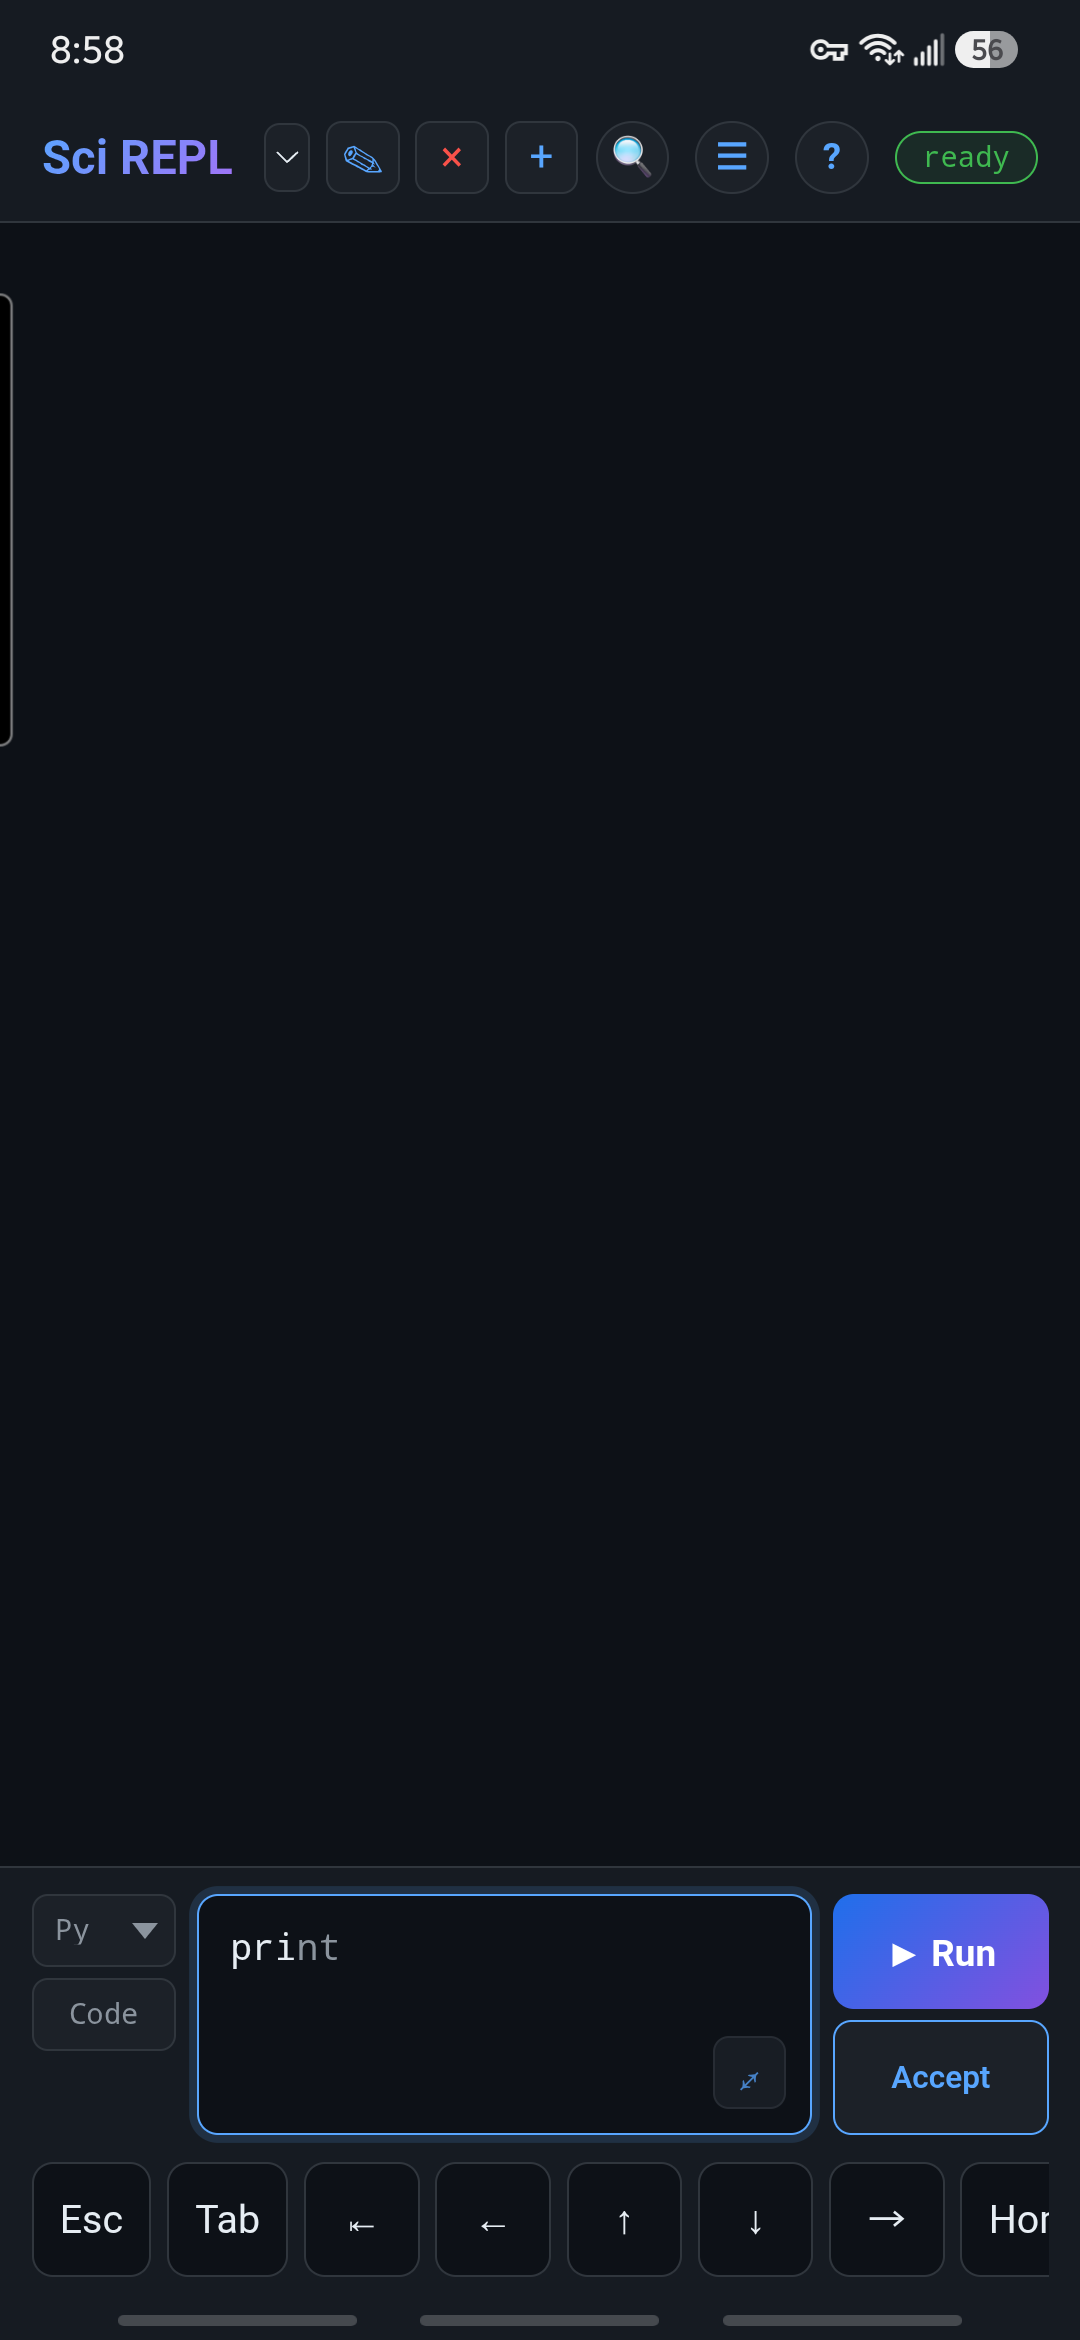
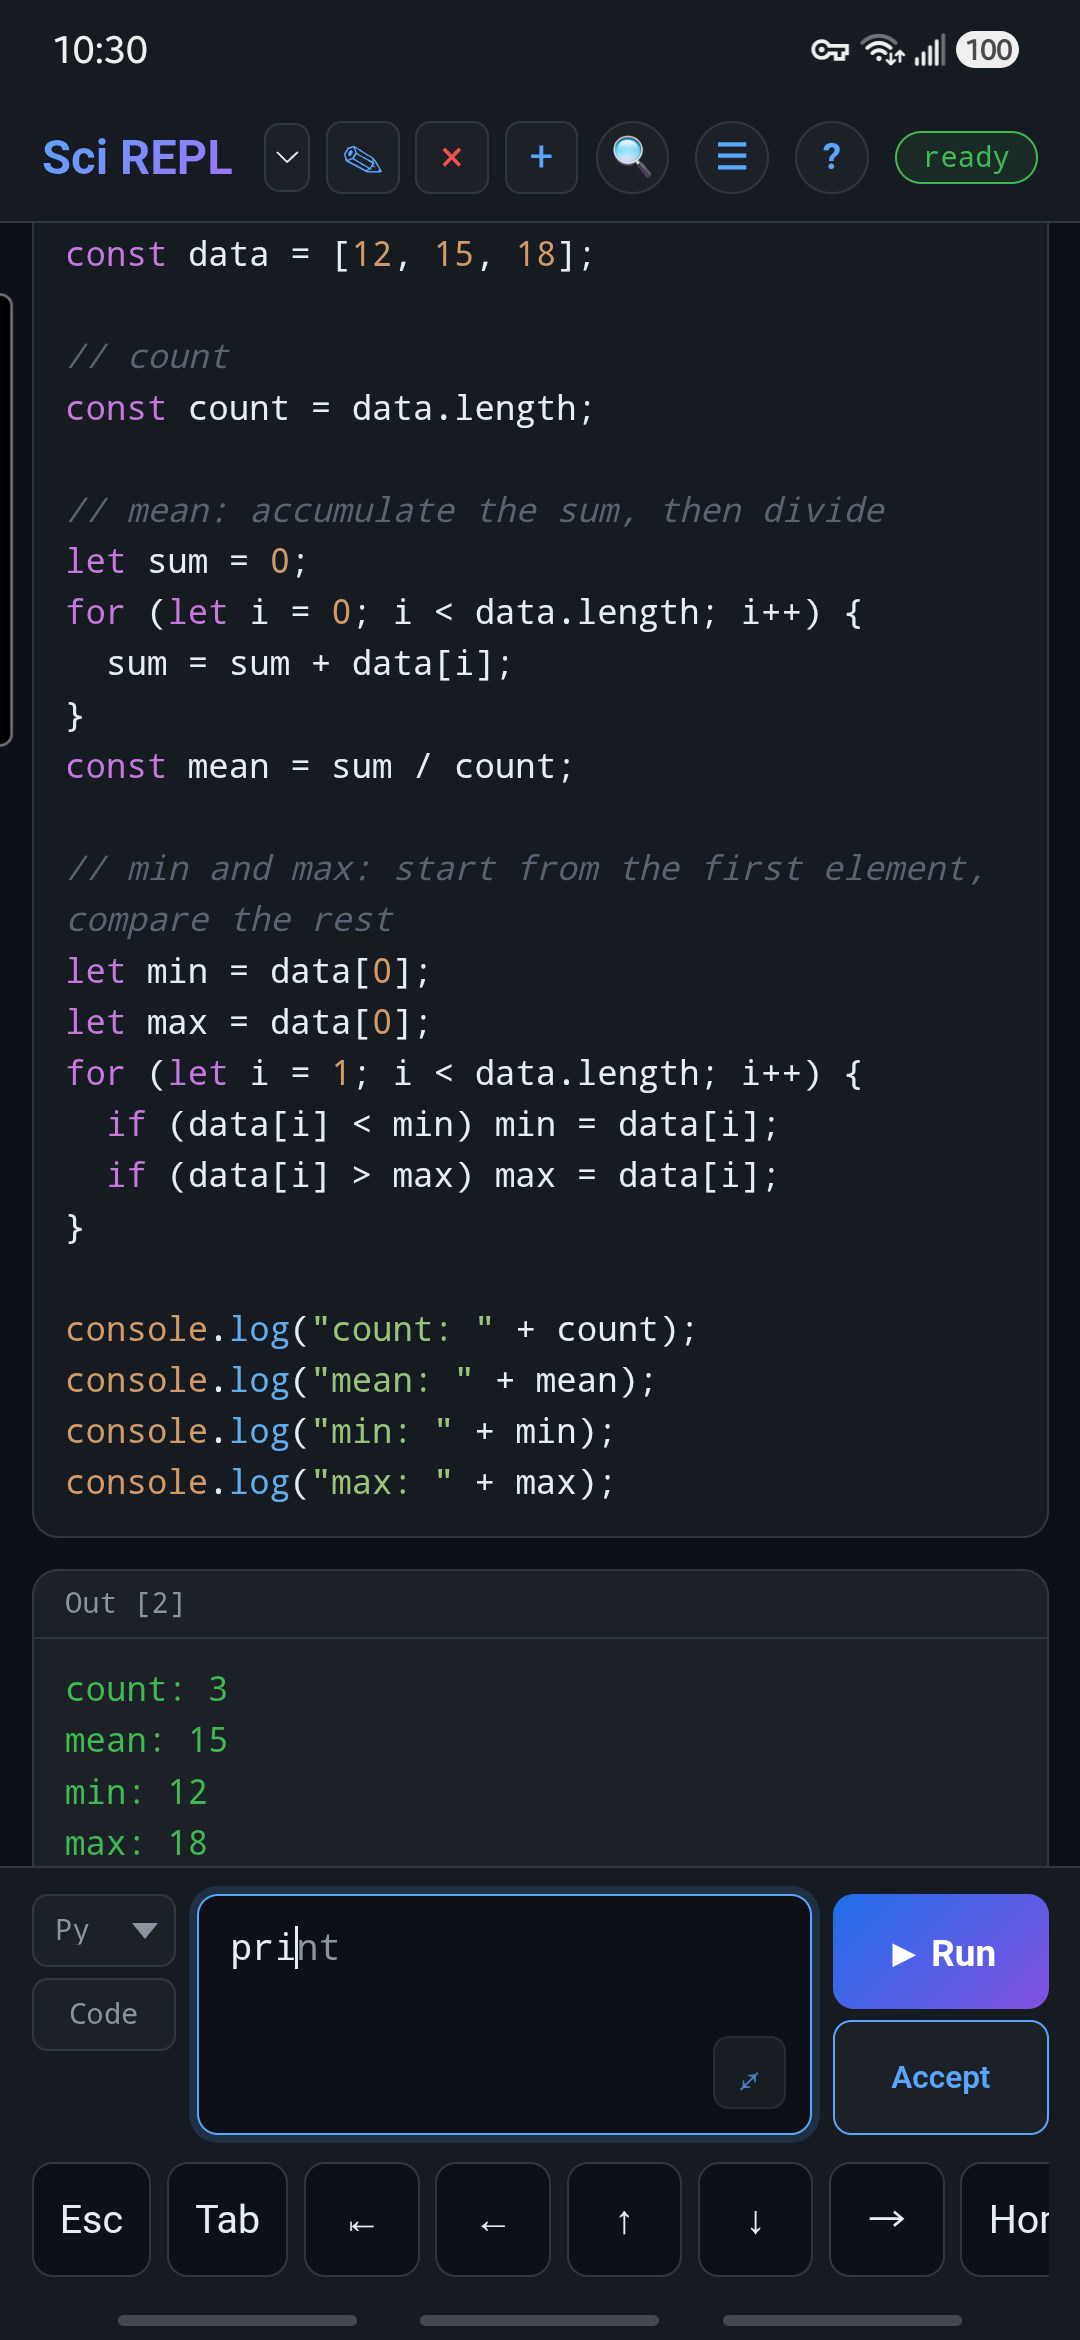
docs: verify ghosts with chips on and explain Pro editor controls

diff --git a/www/help/pro/ai/tutorial/index.html b/www/help/pro/ai/tutorial/index.html
@@ -58,17 +58,22 @@
           <li>Tap the <code>const</code> chip to insert it. A faint in-line completion is called <strong>ghost text</strong>; use <strong>Accept</strong> or <kbd>Tab</kbd> for a visible ghost. Finish the line yourself, for example <code>const values = [12, 15, 18];</code>.</li>
         </ol>
         <figure class="phone-figure">
-          <img class="tutorial-shot" src="assets/completion-general.png" width="414" height="820" alt="Pro browser Completion screen with General selected, Local code completion On, Suggestions At cursor and Suggestion chips On." loading="lazy" decoding="async">
-          <figcaption>The actual General controls in a narrow <strong>browser capture, not an Android screenshot</strong>. The Section dropdown is at the top; lower settings may require scrolling.</figcaption>
+          <div class="shot-window shot-window--completion-general" role="img" aria-label="Pro browser General Completion screen. Yellow borders locate the Ghost text and Suggestion chips headings, Suggestions: At cursor, and Suggestion chips: On.">
+            <div class="shot-stage shot-stage--completion-general">
+              <img src="assets/completion-general.png" width="414" height="820" alt="" loading="lazy" decoding="async">
+              <img src="assets/completion-general-overlay.svg" width="414" height="820" alt="" aria-hidden="true" loading="lazy" decoding="async">
+            </div>
+          </div>
+          <figcaption>The actual General controls in a narrow <strong>browser capture, not an Android screenshot</strong>. Yellow borders locate <strong>Suggestions → At cursor</strong>, <strong>Suggestion chips → On</strong>, and their section titles. The Section dropdown is at the top; lower settings may require scrolling.</figcaption>
           <a class="full-shot-link" href="assets/completion-general.png">View the complete settings capture</a>
         </figure>
-        <p><strong>See the two offline displays on a phone.</strong> For the ghost example, temporarily set <strong>Suggestion chips → Off</strong>, choose <strong>Python</strong>, and type <code>pri</code>. The faint <code>nt</code> after the caret offers <code>print</code>; it is not part of your source until you accept it. Keep <strong>AI suggestions</strong> and <strong>Use local model</strong> off for both examples.</p>
+        <p><strong>See the two offline displays on a phone.</strong> Leave <strong>Suggestion chips → On</strong>, choose <strong>Python</strong>, and type <code>pri</code>. The faint <code>nt</code> after the caret offers <code>print</code>; it is not part of your source until you accept it. <strong>You do not need to turn chips off to see ghost text.</strong> A single candidate can appear as a ghost, while chips offer a choice when several candidates fit. Keep <strong>AI suggestions</strong> and <strong>Use local model</strong> off for both examples.</p>
         <figure class="phone-figure">
-          <img class="tutorial-shot tutorial-shot--composer-detail" src="assets/phone-table-ghost.png" width="1080" height="2340" alt="Lower composer detail from an Android Galaxy S24+ screenshot: Python source pri followed by faint ghost text nt, with suggestion chips off." loading="lazy" decoding="async">
-          <figcaption><strong>Detail view of an actual Galaxy S24+ Android screenshot.</strong> Offline table completion offers one faint suffix at the caret. Chips are off just for this demonstration; the API and local model are off too.</figcaption>
+          <img class="tutorial-shot tutorial-shot--composer-detail" src="assets/phone-table-ghost.png" width="1080" height="2340" alt="Lower composer detail from an Android Galaxy S24+ screenshot: Python source pri followed by faint ghost text nt and an Accept button. Suggestion chips are enabled." loading="lazy" decoding="async">
+          <figcaption><strong>Detail view of an actual Galaxy S24+ Android screenshot.</strong> Offline table completion offers one faint suffix at the caret with <strong>Suggestion chips → On</strong>. The API and local model are off.</figcaption>
           <a class="full-shot-link" href="assets/phone-table-ghost.png">View the unmodified full phone screenshot of ghost text</a>
         </figure>
-        <p>For candidate chips, turn <strong>Suggestion chips → On</strong> again. Replace the practice input with these three lines, leaving the caret after the unfinished <code>sample_m</code>. The row offers <code>sample_mean</code> and <code>sample_median</code> from names in your own source. Tap a chip to choose a candidate; unlike ghost text, the row shows alternatives.</p>
+        <p>With chips still <strong>On</strong>, replace the practice input with these three lines, leaving the caret after the unfinished <code>sample_m</code>. The row offers <code>sample_mean</code> and <code>sample_median</code> from names in your own source. Tap a chip to choose a candidate; unlike ghost text, the row shows alternatives.</p>
         <pre><code>sample_mean = 0
 sample_median = 0
 sample_m</code></pre>
@@ -77,6 +82,7 @@ sample_m</code></pre>
           <figcaption><strong>Detail view of an actual Galaxy S24+ Android screenshot.</strong> With chips on, source-derived offline candidates offer the two names above. The API and local model remain off.</figcaption>
           <a class="full-shot-link" href="assets/phone-table-chips.png">View the unmodified full phone screenshot of candidate chips</a>
         </figure>
+        <p>The <strong>extra-key row</strong> visible in the phone pictures and <strong>syntax colours while typing</strong> are separate, optional Pro controls. See <a href="../../../interface/appearance/#pro-editor">Appearance walkthrough: extra keys and syntax colours</a> to turn either on or off, and to find the file editor's separate highlighting checkbox.</p>
         <p>These prefixes demonstrate editing only—there is no need to Run them. After trying the displays, switch back to <strong>JavaScript</strong> for the example above and leave chips on for the rest of the lesson.</p>
         <p>The offline layer uses curated names and, where supported, local workbook/session information and frequency or acceptance history to rank suggestions. It is <strong>not a language model</strong>. It can complete a familiar name, but it does not reason about your whole task. Different languages have different coverage; a known-looking chip is not proof that the name exists in the running program.</p>
         <p class="callout"><strong>Accept is not Run.</strong> Accepting a suggestion edits the source; it does not execute the cell. Review it, then use that editor's <strong>Run</strong> button. Typing a prefix does not send an API request or start a language runtime just to make these suggestions.</p>

diff --git a/www/help/interface/appearance/index.html b/www/help/interface/appearance/index.html
@@ -26,19 +26,20 @@
     <article>
       <p class="eyebrow">Make the interface your own</p>
       <h1>Show Browse and adjust Appearance</h1>
-      <p class="lede">Put the <strong>📦 Browse</strong> shortcut in <strong>SciREPL Free's</strong> header, then choose comfortable buttons and a light or dark theme. The other Appearance controls below are also useful in Pro. You can do this without changing or running any workbook cells.</p>
+      <p class="lede">Put the <strong>📦 Browse</strong> shortcut in <strong>SciREPL Free's</strong> header, then choose comfortable buttons and a light or dark theme. Shared Appearance controls are also useful in Pro; a separate Pro-only section covers extra keys and live syntax colours. You can do this without changing or running any workbook cells.</p>
       <ul class="meta">
-        <li class="chip chip-free">Free + shared Pro controls</li>
+        <li class="chip chip-free">Free + Pro (see labels)</li>
         <li class="chip">Android screenshots</li>
         <li class="chip">About 3 minutes</li>
       </ul>
-      <p class="screen-note">All screenshots are real captures of <strong>SciREPL Free 1.4.0-debug</strong> on a <strong>Samsung Galaxy S24+</strong>, taken on <time datetime="2026-10-06">6 October 2026</time>. They show the debug-signed app, not an installation from the Play Store. The steps use Free 1.4.0 controls. Browse's header shortcut is Free-only; Pro users can open the same catalogue from Menu.</p>
+      <p class="screen-note">The five screenshots are real captures of <strong>SciREPL Free 1.4.0-debug</strong> on a <strong>Samsung Galaxy S24+</strong>, taken on <time datetime="2026-10-06">6 October 2026</time>. They show the debug-signed app, not an installation from the Play Store. The pictured steps use Free 1.4.0 controls. Browse's header shortcut is Free-only; Pro users can open the same catalogue from Menu. The Pro-only text below is verified against the Pro 1.4.0 codebase; those controls are not illustrated by these Free pictures, and older menus can differ.</p>
       <nav class="lesson-nav" aria-label="Appearance walkthrough steps">
         <strong>In this lesson</strong>
         <ol>
           <li><a href="#open-appearance">Open Appearance</a></li>
           <li><a href="#browse-shortcut">Show the Browse shortcut</a></li>
           <li><a href="#buttons">Adjust buttons and Run</a></li>
+          <li><a href="#pro-editor">Pro only: extra keys and live colours</a></li>
           <li><a href="#theme">Choose a theme</a></li>
           <li><a href="#android-space">Optional Android space and recovery</a></li>
         </ol>
@@ -126,6 +127,20 @@
           <li><strong>Always show the label:</strong> keep the text, even on a narrow screen.</li>
         </ul>
         <p>There is no text-zoom slider in Appearance. <strong>Button size</strong> is not a general font-size setting. Free 1.4.0 and Pro 1.3.0 automatically enlarge compact header controls to accommodate Android's system text zoom.</p>
+      </section>
+
+      <section id="pro-editor">
+        <p class="step-label">Optional · Pro only</p>
+        <h2>Pro only: extra keys and syntax colours while typing</h2>
+        <p>These are <strong>SciREPL Pro 1.4.0</strong> editor controls, not controls shown in the Free screenshots above. Extra keys and live colours are separate settings.</p>
+        <h3>Show the extra-key row</h3>
+        <p>Open <strong>Menu → Completion → Section → General</strong>. Set <strong>Extra keys above the keyboard → On</strong>; the default is <strong>Off</strong>. The row offers Esc, Tab, indent removal, arrows, Home, End, Run and punctuation. Swipe it sideways to reach keys that do not fit. Choosing On does not run code, but the row's <strong>▶ Run</strong> key does—review the source before tapping it.</p>
+        <p>In the same section, <strong>Chips in portrait</strong> and <strong>Chips in landscape</strong> choose <strong>Own row</strong> or <strong>Replace extra keys</strong>. The defaults are Own row in portrait and Replace extra keys in landscape: while candidates appear, they can temporarily take the keys' place. With extra keys off, chips use their own row. <strong>Accessory rows in landscape</strong> offers <strong>Off</strong>, <strong>When there is room</strong> (default), or <strong>Always</strong>. When there is room uses <strong>Minimum visible code lines</strong>, initially <strong>8</strong>, so a short landscape view can hide optional rows.</p>
+        <h3>Turn live syntax colours on or off</h3>
+        <p>Open <strong>Menu → Appearance → Syntax colours while typing</strong>. Choose <strong>On</strong> to colour supported code while editing, or <strong>Off</strong> for plain text. The default, <strong>Auto (desktop on, touch off)</strong>, enables colours in desktop browsers and leaves them off on phones. If typing feels less responsive, choose Off; colouring can cost typing speed on slower devices. Code longer than <strong>6000 characters</strong> remains uncoloured even with On.</p>
+        <p>Colours do not validate or execute code, send an API request, or turn completion on. Changing this setting takes effect immediately and does not alter your source.</p>
+        <h3>Files &amp; Storage has a separate switch</h3>
+        <p>For a text file, use <strong>Menu → Files &amp; Storage (VFS / Paths)</strong>, select the file, then choose <strong>Full screen</strong>. That editor's <strong>Syntax highlighting</strong> checkbox is independent of Appearance's live-colour setting and is off by default. It is unavailable for unrecognised file types or files over 100,000 characters. Its extra keys share the Completion preference, but can hide when the file editor has too little room. File <strong>Save</strong> writes your edits; switching colours alone does not.</p>
       </section>
 
       <section id="theme">

diff --git a/www/help/pro/ai/tutorial/tutorial.css b/www/help/pro/ai/tutorial/tutorial.css
@@ -12,3 +12,10 @@
   object-fit: cover;
   object-position: bottom;
 }
+
+.shot-window--completion-general {
+  width: min(100%, 430px);
+  aspect-ratio: 414 / 820;
+}
+
+.shot-stage--completion-general { aspect-ratio: 414 / 820; }

diff --git a/www/help/pro/ai/tutorial/assets/README.md b/www/help/pro/ai/tutorial/assets/README.md
@@ -53,6 +53,12 @@ completion, inference, phone performance, or Android rendering was exercised.
 The browser's unavailable native-only local-model state was not fabricated or
 pictured. These three browser images demonstrate UI navigation and configuration only.
 
+The yellow borders over `completion-general.png` are a separate, editable
+SVG (`completion-general-overlay.svg`, 414 × 820, matching the screenshot).
+They locate section titles and the Suggestions / Suggestion chips controls.
+The original PNG and its capture-receipt hash are unchanged; the full-image
+link opens it without annotations.
+
 ## Android completion captures
 
 - Actual Galaxy S24+ (`SM-S926W`), `com.unifyweaver.scirepl.pro.debug`, version
@@ -67,8 +73,11 @@ pictured. These three browser images demonstrate UI navigation and configuration
 - A separate practice workbook contained only toy code. No existing workbook
   source or provider credential is included in the published screenshots or
   receipt. The software keyboard was dismissed for the published pictures.
-- `phone-table-ghost.png`: Python `pri` offers the faint suffix `nt`, chips
-  temporarily off. `phone-table-chips.png`: earlier source declares
+- `phone-table-ghost.png`: re-checked on the phone at 2026-10-08 04:30 UTC
+  (7 October local). Python `pri` offers the faint suffix `nt` with the actual
+  Suggestion chips control set to On. No provider request was sent; the
+  previous workbook, draft, language and snapshotted settings were restored.
+  `phone-table-chips.png`: earlier source declares
   `sample_mean` and `sample_median`, then `sample_m` offers both names. Online
   suggestions and the local model were off; neither Python example was run.
 - `phone-online-chips.png`: a real, independently selected
